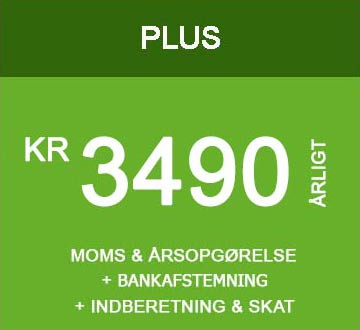
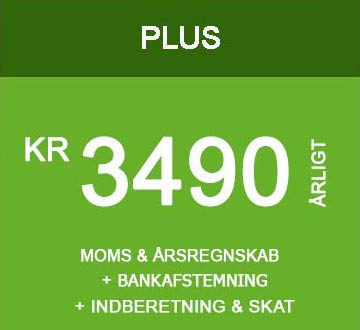
Update of price tags and few other small changes

Changed region(s): [[0.1833, 0.7273, 0.825, 0.8182]]

diff --git a/frontend/assets/js/ebogholderen.pricing-plans.js b/frontend/assets/js/ebogholderen.pricing-plans.js
@@ -50,26 +50,26 @@ $(document).ready(function () {
         },
         'selectDefinedPrice' : function(monthly){
             if(monthly){
-                price_light      = {'from':990, 'to':95 };
-                price_standard   = {'from':1490, 'to':145};
-                price_plus       = {'from':3490, 'to':345};
+                price_light      = {'from':'', 'to':95 };
+                price_standard   = {'from':'', 'to':145};
+                price_plus       = {'from':'', 'to':345};
                 button_highlight   = '#button_yearly';
                 button_unhighlight = '#button_monthly';
                 //images
-                $('.package-light').css('background-image','url(../frontend/assets/images/home/price-light-clean-maned.jpg?v=1.4)');
-                $('.package-standard').css('background-image','url(../frontend/assets/images/home/price-standard-clean-maned.jpg?v=1.4)');
-                $('.package-plus').css('background-image','url(../frontend/assets/images/home/price-plus-clean-maned.jpg?v=1.4)');
+                $('.package-light').css('background-image','url(../frontend/assets/images/home/price-light-clean-maned.jpg?v=1.5)');
+                $('.package-standard').css('background-image','url(../frontend/assets/images/home/price-standard-clean-maned.jpg?v=1.5)');
+                $('.package-plus').css('background-image','url(../frontend/assets/images/home/price-plus-clean-maned.jpg?v=1.5)');
             }else
             {//yearly
-                price_light      = {'from':95 , 'to':990};
-                price_standard   = {'from':145, 'to':1490};
-                price_plus       = {'from':345, 'to':3490};
+                price_light      = {'from':95 , 'to':''};
+                price_standard   = {'from':145, 'to':''};
+                price_plus       = {'from':345, 'to':''};
                 button_highlight   = '#button_monthly';
                 button_unhighlight = '#button_yearly';
                 //images
-                $('.package-light').css('background-image','url(../frontend/assets/images/home/price-light-clean.jpg?v=1.4)');
-                $('.package-standard').css('background-image','url(../frontend/assets/images/home/price-standard-clean.jpg?v=1.4)');
-                $('.package-plus').css('background-image','url(../frontend/assets/images/home/price-plus-clean.jpg?v=1.4)');
+                $('.package-light').css('background-image','url(../frontend/assets/images/home/price-light-clean.jpg?v=1.5)');
+                $('.package-standard').css('background-image','url(../frontend/assets/images/home/price-standard-clean.jpg?v=1.5)');
+                $('.package-plus').css('background-image','url(../frontend/assets/images/home/price-plus-clean.jpg?v=1.5)');
             }
 
             if($('#price_standard').html()==price_standard.to)

diff --git a/frontend/assets/css/styles.css b/frontend/assets/css/styles.css
@@ -1277,7 +1277,7 @@ input:focus {
 }
 
 .package-light{
-    background-image:url(../images/home/price-light-clean.jpg?v=1.4);
+    background-image:url(../images/home/price-light-clean.jpg?v=1.5);
     background-repeat:no-repeat;
     background-position:center center;
     padding-top: 93px;
@@ -1287,7 +1287,7 @@ input:focus {
 }
 
 .package-standard{
-    background-image:url(../images/home/price-standard-clean.jpg?v=1.4);
+    background-image:url(../images/home/price-standard-clean.jpg?v=1.5);
     background-repeat:no-repeat;
     background-position:center center;
     margin-right   : -2px;
@@ -1300,7 +1300,7 @@ input:focus {
     height:330px;
 }
 .package-plus{
-    background-image:url(../images/home/price-plus-clean.jpg?v=1.4);
+    background-image:url(../images/home/price-plus-clean.jpg?v=1.5);
     background-repeat:no-repeat;
     background-position:center center;
     padding-top: 96px;

diff --git a/frontend/assets/css/responsive.css b/frontend/assets/css/responsive.css
@@ -736,6 +736,7 @@
         -webkit-transform: scale(0.9);
         -o-transform: scale(0.9); 
         -ms-transform: scale(0.9); 
+        max-width: 290px;
     }
     .section-header h2.dark-text {
       padding-top: 30px;

diff --git a/frontend/messages/da-DK/app.php b/frontend/messages/da-DK/app.php
@@ -50,7 +50,7 @@ return [
     'Why even pay a CPA or Tax Consultant if you don\'t have to. If your books are simple then so is your tax filing. Let us handle it all for just a little extra a month.' => 'Hvorfor overhovedet bruge en dyr revisor hvis det ikke er nødvendigt. Hvis vi i forvejen har lavet din bogføring, hvorfor så ikke også lade os klare resten af Skat, Moms og indberetning for kun en lille smule ekstra om måneden.',
     
     'A revolutionary service that helps 1000\'s of small businesses every day' => 'En revolutionerende service der hjælper 100vis af små virksomheder hver dag',
-    'AT A GREAT PRICE!' => 'TIL EN FANTASTISK PRIS',
+    'AT A GREAT PRICE!' => 'OKTOBER TILBUD – FANTASTISK PRIS',
     'What\'s included?' => 'Hvilken Pakke er den rigtige for mig?',
     'Compare plans' => 'SAMMENLIGN PAKKER',
     
@@ -118,7 +118,7 @@ return [
     'Tax Filing3'=>'Indberetning af Selvangivelse <sup>5)</sup>',
     'Free use of our app for smartphones'=>'Gratis brug af vores app til smartphones',
     'Including 150 Annex per year <sup>1)</sup>'=>'Inklusiv 150 bilag per år <sup>1)</sup>',
-    'Pricing plans notes' => '<sup>1)</sup><span> Har du mere end 150 bilag per år, så tager vi 1.200 kroner per påbegyndte 100 bilag herudover.<br/>Hvis du i forvejen ved hvor mange bilag du ca har i løbet af året, kan du på forhånd købe ekstra bilagspakker for kun 900 kroner per 100 bilag – dvs. en besparelse på hele 25%. Har du eksempelvis 350 bilag, skal du dermed kun betale 1.800 kroner ekstra (2 x 900 kroner). </span><br class="clear"/><sup>2)</sup> <span>“Rådgivning” dækker ikke mere omfattende rådgivning, såsom skatte- og revisionsrådgivning. Disse former for rådgivning tilkøbes separat.</span><br class="clear"/><sup>3)</sup> <span>Elektronisk Indberetning til Erhvervsstyrelsen vedrører kun selskaber.</span><br class="clear"/><sup>4)</sup> <span>Hvis du er en enkeltmandsvirksomhed, udarbejdes dit private Skatteregnskab også.</span><br class="clear"/><sup>5)</sup> <span>For selskaber foretages Indberetning af Virksomhedens Selvangivelse, og for Enkeltmandsvirksomheder Indberettes den Personlige Selvangivelse.</span>',
+    'Pricing plans notes' => '<sup>1)</sup><span> Har du mere end 150 bilag per år, så tager vi 1.200 kroner per påbegyndte 100 bilag herudover.<br/>Hvis du i forvejen ved hvor mange bilag du ca har i løbet af året, kan du på forhånd købe ekstra bilagspakker for kun 900 kroner per 100 bilag – dvs. en besparelse på hele 25%. Har du eksempelvis 350 bilag, skal du dermed kun betale 1.800 kroner ekstra (2 x 900 kroner). Ubrugte bilagspakker kan overføres til næste regnskabsår. </span><br class="clear"/><sup>2)</sup> <span>“Rådgivning” dækker ikke mere omfattende rådgivning, såsom skatte- og revisionsrådgivning. Disse former for rådgivning tilkøbes separat.</span><br class="clear"/><sup>3)</sup> <span>Elektronisk Indberetning til Erhvervsstyrelsen vedrører kun selskaber.</span><br class="clear"/><sup>4)</sup> <span>Hvis du er en enkeltmandsvirksomhed, udarbejdes dit private Skatteregnskab også.</span><br class="clear"/><sup>5)</sup> <span>For selskaber foretages Indberetning af Virksomhedens Selvangivelse, og for Enkeltmandsvirksomheder Indberettes den Personlige Selvangivelse.</span>',
     'Fine Print'=>'Har du brug for noget specielt?',
     '*Included in both our packages are up to 500 transactions yearly, which covers the need of almost all self-employed people and small businesses.'=>'Det er vores erfaring at for de fleste er behovet for rådgivning koncentreret omkring at kunne få svar på helt konkrete spørgsmål vedrørende momsfradrag og lignende. Og i disse tilfælde vil den medfølgende times rådgivning være tilstrækkelig til at dække behovet.',
     'However should you find yourself in the lucky circumstances that you have more transactions than what is included in your package, we will only charge you a mere 50 cents extra per additional transaction.'=>'Der kan dog være tilfælde hvor der er behov for mere omfattende rådgivning, eksempelvis skatte- eller revisionsrådgivning og i disse tilfælde vil det altid være muligt at tilkøbe ekstra rådgivningsydelser efter behov fra vores erfarne rådgivere.<br/><br/>Bare ring 91 11 11 97 og fortæl os hvad dit behov er.',

diff --git a/frontend/views/site/pricing-plans.php b/frontend/views/site/pricing-plans.php
@@ -7,7 +7,7 @@ $this->title = 'eBogholderen.dk - Hvilken Pakke er rigtig for mig?';
 
 
 $this->registerJsFile(
-  Url::to("@web/frontend/assets/js/ebogholderen.pricing-plans.js?v=1.7"), [
+  Url::to("@web/frontend/assets/js/ebogholderen.pricing-plans.js?v=1.8"), [
     "depends" => "\\frontend\\assets\\AppAsset"
   ]);
   
@@ -65,7 +65,7 @@ $this->registerCssFile(
                     <a href="#" 
                        class="package package-light btn-pricing-page qtip1" title="<?= Yii::t('app','If you’re self-employed without a separate company bank account and only have a few monthly receipts and invoices, but still want to keep your books in order. Then this Package is right for you.')?>">
                       <h4>
-                        <span id="price_light">990</span>
+                        <span id="price_light"></span>
                       </h4>
                     </a>
                   </th>
@@ -73,7 +73,7 @@ $this->registerCssFile(
                     <a href="#" 
                        class="package package-standard btn-pricing-page qtip2" title="<?= Yii::t('app','Never miss a receipt or tax deduction. This package will pay for itself while giving you peace of mind in the process. Let us do the grunt work (cheaply), and leave only the taxes to your CPA or Tax consultant.')?>">
                       <h4>
-                        <span id="price_standard">1490</span>
+                        <span id="price_standard"></span>
                       </h4>
                     </a>
                   </th>
@@ -81,7 +81,7 @@ $this->registerCssFile(
                     <a href="#" 
                        class="package package-plus  btn-pricing-page qtip3" title="<?= Yii::t('app','Why even pay a CPA or Tax Consultant if you don\'t have to. If your books are simple then so is your tax filing. Let us handle it all for just a little extra a month.')?>">
                       <h4>
-                        <span id="price_plus">3490</span>
+                        <span id="price_plus"></span>
                       </h4>
                     </a>
                   </th>

diff --git a/frontend/views/site/parts/home-start-your-free-trial.php b/frontend/views/site/parts/home-start-your-free-trial.php
@@ -17,21 +17,21 @@ use yii\helpers\Html;
           <a href="<?= Url::to(["site/pricing-plans"]); ?>" class="pricing-img" >
           <?= 
             Html::img(
-              Url::to("@web/frontend/assets/images/home/price-light.jpg?v=1.5", true), 
+              Url::to("@web/frontend/assets/images/home/price-light.jpg?v=1.7", true), 
               ["alt" => "Light Bookkeeping", "class" => "img-responsive qtip1", 'title'=>Yii::t('app','If you’re self-employed without a separate company bank account and only have a few monthly receipts and invoices, but still want to keep your books in order. Then this Package is right for you.')]);
           ?>
           </a>
           <a href="<?= Url::to(["site/pricing-plans"]); ?>" class="pricing-img" >
           <?= 
             Html::img(
-              Url::to("@web/frontend/assets/images/home/price-standard.jpg?v=1.5", true), 
+              Url::to("@web/frontend/assets/images/home/price-standard.jpg?v=1.7", true), 
               ["alt" => "Standard Bookkeeping", "class" => "img-responsive mid qtip2", 'title'=>Yii::t('app','Never miss a receipt or tax deduction. This package will pay for itself while giving you peace of mind in the process. Let us do the grunt work (cheaply), and leave only the taxes to your CPA or Tax consultant.')]);
           ?>
           </a>
           <a href="<?= Url::to(["site/pricing-plans"]); ?>" class="pricing-img" >
           <?= 
             Html::img(
-              Url::to("@web/frontend/assets/images/home/price-plus.jpg?v=1.5", true), 
+              Url::to("@web/frontend/assets/images/home/price-plus.jpg?v=1.7", true), 
               ["alt" => "Plus Bookkeeping", "class" => "img-responsive qtip3", 'title'=>Yii::t('app','Why even pay a CPA or Tax Consultant if you don\'t have to. If your books are simple then so is your tax filing. Let us handle it all for just a little extra a month.')]);
           ?>
           </a>

diff --git a/frontend/views/site/parts/home-attention-row.php b/frontend/views/site/parts/home-attention-row.php
@@ -16,15 +16,23 @@ use yii\captcha\Captcha;
         <div class="home-attention-row-subcontainer">
           <div class="attention-row-headings">
             <h4 class="fullscreen-page-heading">
-              <?= Yii::t('app', 'Vi laver løbende bogføring, moms- og årsopgørelse for kun 3.490 per år.'); ?>
+              <?= Yii::t('app', 'Vi Laver Din Bogføring, Moms- og Årsregnskab For Kun 3.490 Per År.'); ?>
               <div class="intro_sub_heading">
-                <?= Yii::t('app', 'Alt du skal gøre er at tage billeder af dine bilag med vores app'); ?>
+                <?= Yii::t('app', 'Pris Garanti - Danmarks Billigste Certificerede Bogholder'); ?>
               </div>
             </h4>
             <h4 class="mobile-page-heading">
-              <?= Yii::t('app', 'Vi laver løbende bogføring, moms- og årsopgørelse for kun 3.490 per år.'); ?>
+              <?= Yii::t('app', 'Vi Laver Din Bogføring, '); ?>
               <div class="intro_sub_heading">
-                <?= Yii::t('app', 'Alt du skal gøre er at tage billeder af dine bilag med vores app'); ?>
+                <?= Yii::t('app', 'Moms- og Årsregnskab For '); ?>
+                <br/>
+                <?= Yii::t('app', 'Kun'); ?>
+                <span class="highlighted-price">
+                3.490
+                </span>
+                <span class="after-price">
+                <?= Yii::t('app', 'År.'); ?>
+                </span>
               </div>
             </h4>
           </div>

diff --git a/frontend/assets/AppAsset.php b/frontend/assets/AppAsset.php
@@ -27,8 +27,8 @@ class AppAsset extends AssetBundle {
     'css/icon-fonts.css',
     'css/pixeden-icons.css',
     'css/jquery.qtip.min.css',
-    'css/styles.css?v=7.9',
-    'css/responsive.css?v=6.4',
+    'css/styles.css?v=8.0',
+    'css/responsive.css?v=6.5',
     'css/custom.css?v=3.9',
     'css/jquery.bxslider.css',
   ];

diff --git a/frontend/views/site/contact.php b/frontend/views/site/contact.php
@@ -33,7 +33,7 @@ $this->params["top_banner"] = '<img src="' . Url::to("@web/frontend/assets/image
         DK-2100 Copenhagen<br/>
         DENMARK
         <br/><br/>
-        (+45) 9111 1117<br/>
+        (+45) 91 11 11 97<br/>
     </div>
 </div>
 ';
